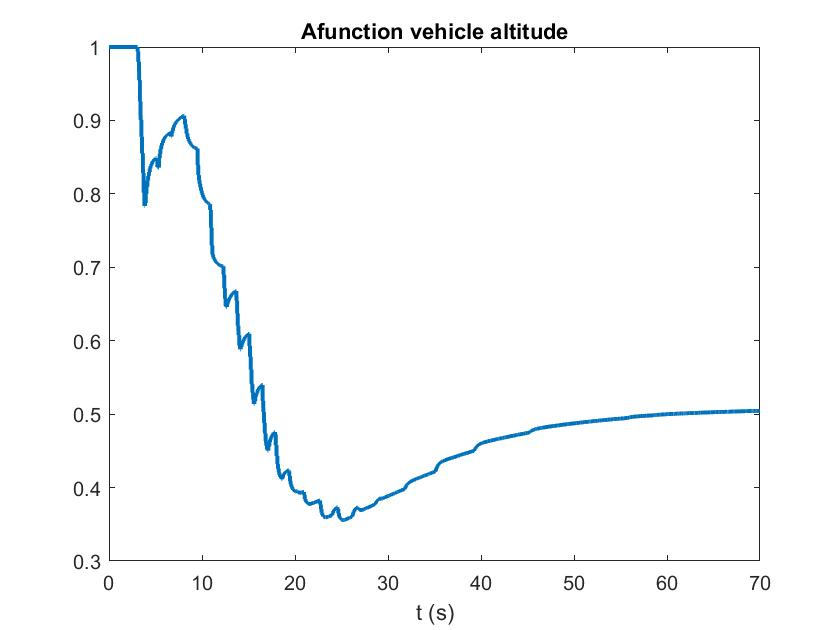
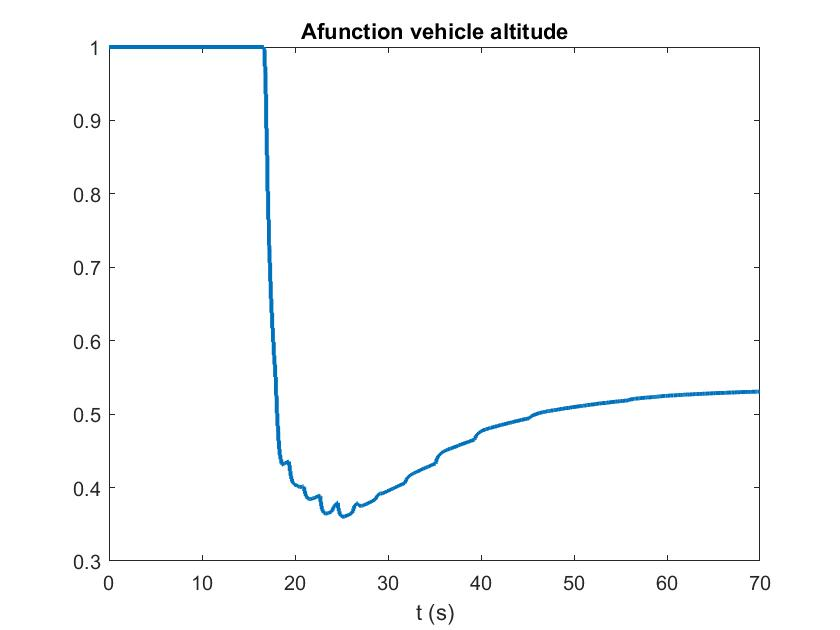
update altitutde saturate + plot 1B

Changed region(s): [[0.1548, 0.0603, 0.8976, 0.8444]]

diff --git a/esReport/es1B/ComputeTaskReferences.m b/esReport/es1B/ComputeTaskReferences.m
@@ -20,7 +20,7 @@ uvms.xdot.vehicleAtt(1:3,:) = Saturate(0.2 * w_vang, 0.2);
 threshold = 10;
 range = 0.5;
 %reference for altittude task 1 m
-uvms.xdot.vehicleAlt = 1 * ((threshold + range) - uvms.w_distance);
+uvms.xdot.vehicleAlt = Saturate(0.7 * ((threshold + range) - uvms.w_distance), 0.7);
 
 
 %print var

diff --git a/esReport/es1B/PrintPlot.m b/esReport/es1B/PrintPlot.m
@@ -57,6 +57,7 @@ legend('x','y','z');
 title('vehicle position')
 xlabel('t (s)')
 ylabel('Position (m)')
+ylim([-40 60])
 
 figure(8);
 hplot = plot(plt.t, plt.a(10,:));
